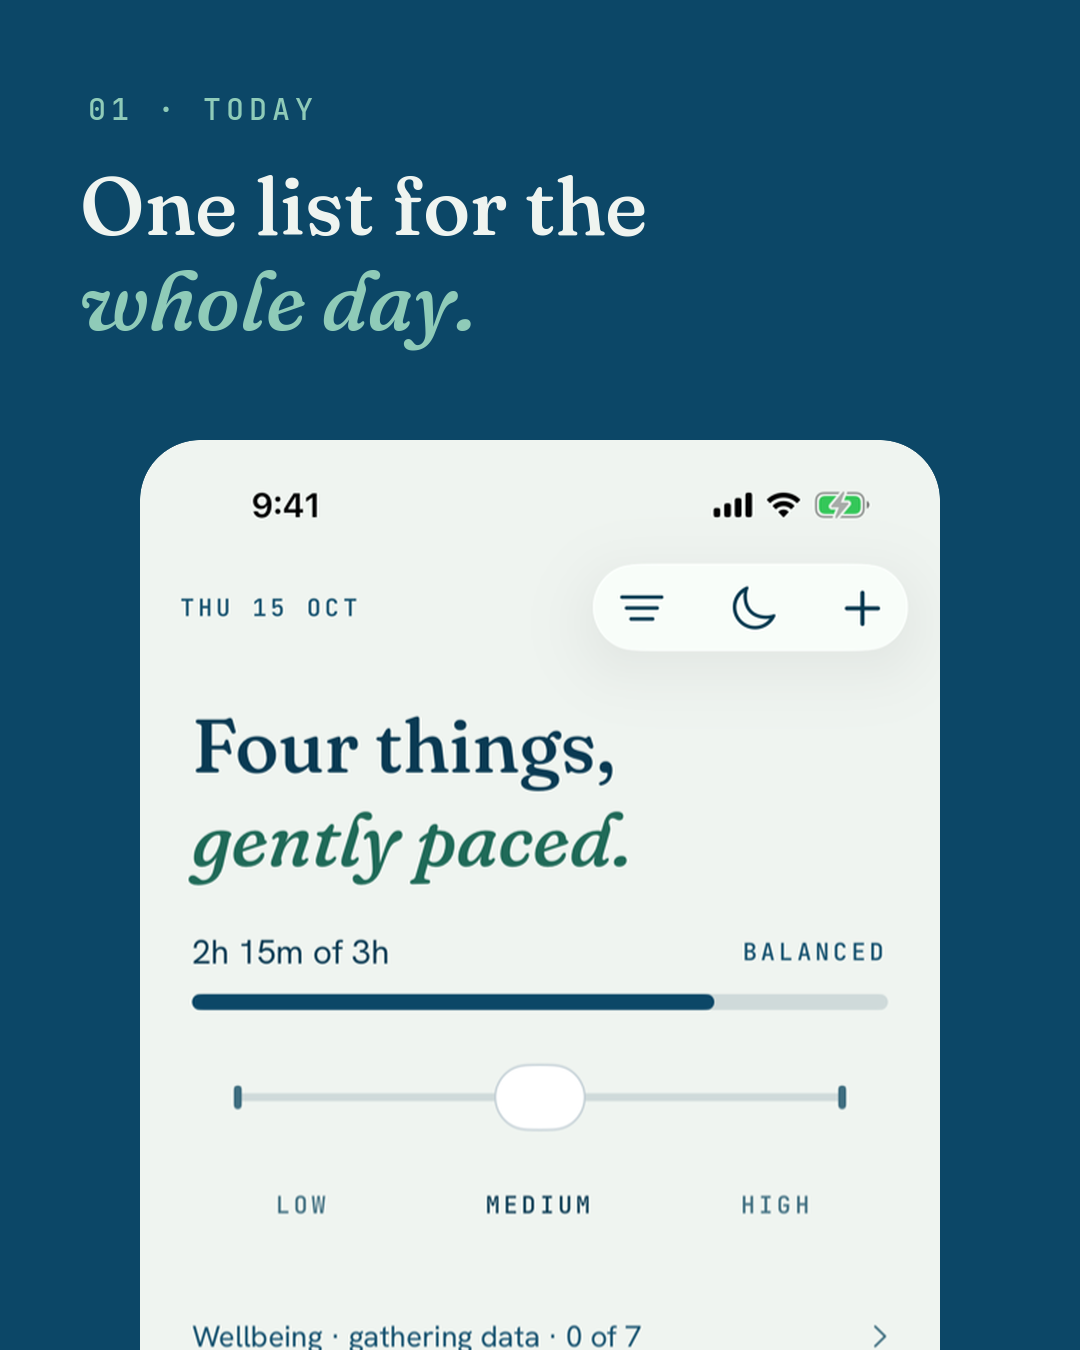
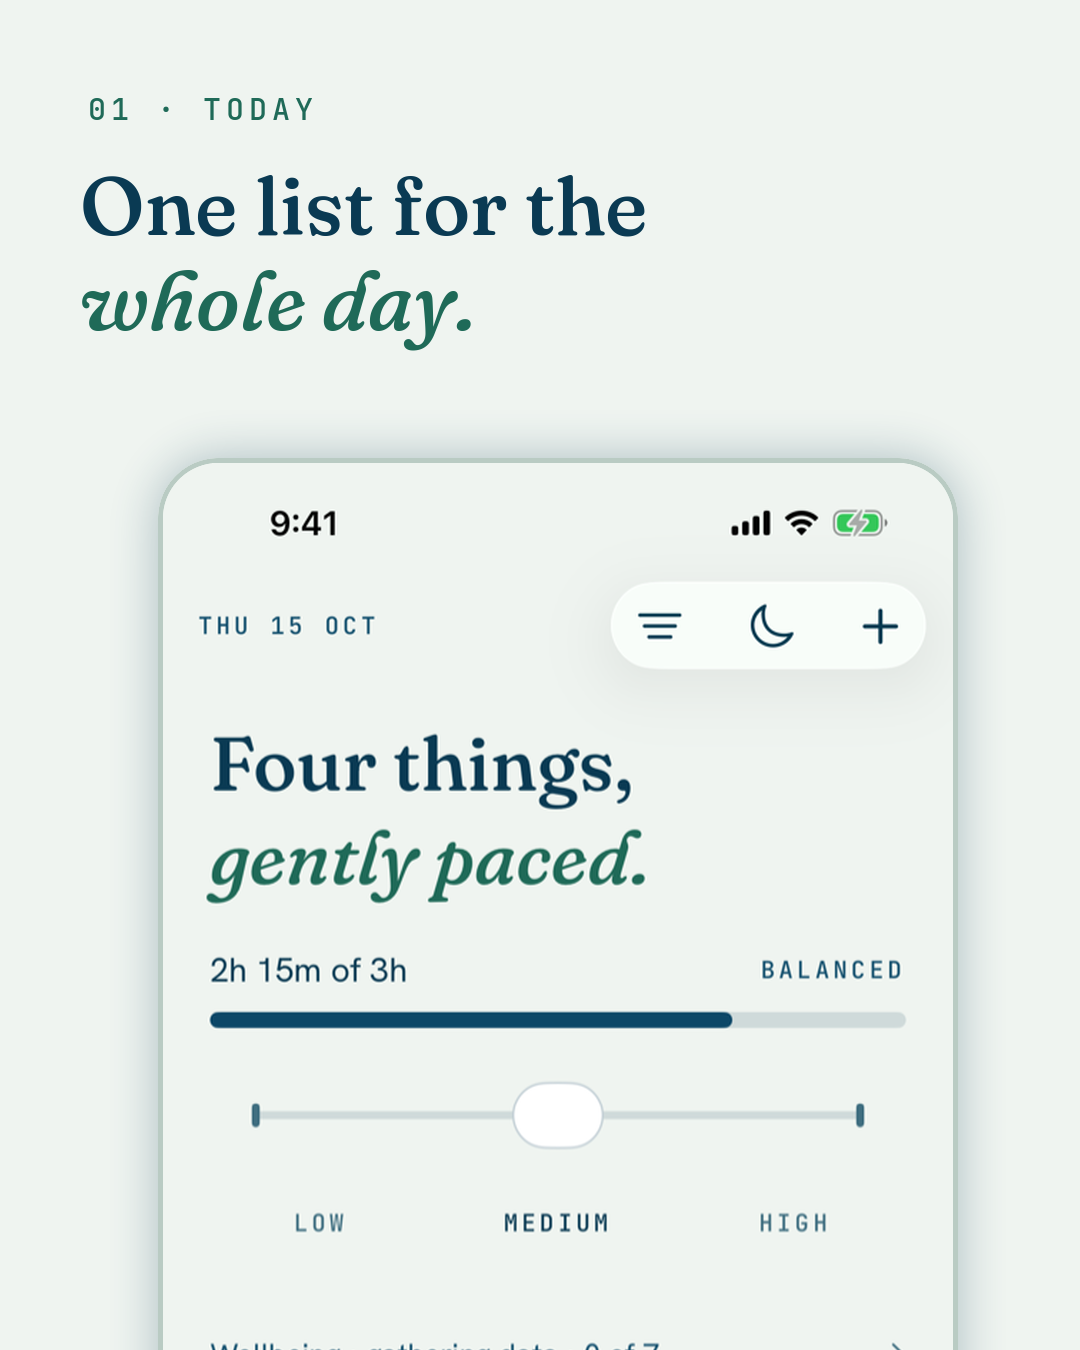
Carousel 6 in the light theme (#318)

diff --git a/assets/social/2026-10-25-beta-carousel/notes.md b/assets/social/2026-10-25-beta-carousel/notes.md
@@ -16,7 +16,7 @@ I'd love to hear what feels right, and what feels wrong.
 
 ## Alt text
 
-1. 01-cover.png: Jamaal app icon on a deep blue background with the words "The beta is open." One list. Just today. Beautifully ordered. Swipe.
+1. 01-cover.png: Jamaal app icon on a light background with the words "The beta is open." One list. Just today. Beautifully ordered. Swipe.
 2. 02-today.png: "One list for the whole day." A phone showing Jamaal's Today screen, headed "Four things, gently paced", with a load bar at 2 hours 15 minutes of 3 hours and a Low, Medium, High slider.
 3. 03-night-planning.png: "Plan tomorrow tonight." A phone showing step 4 of 5 of Night Planning, headed "About right", with the Low, Medium, High slider and a Continue button.
 4. 04-join.png: "Join the beta." On iPhone, iPad and Mac. Free while in beta. Join the beta, link in bio.
